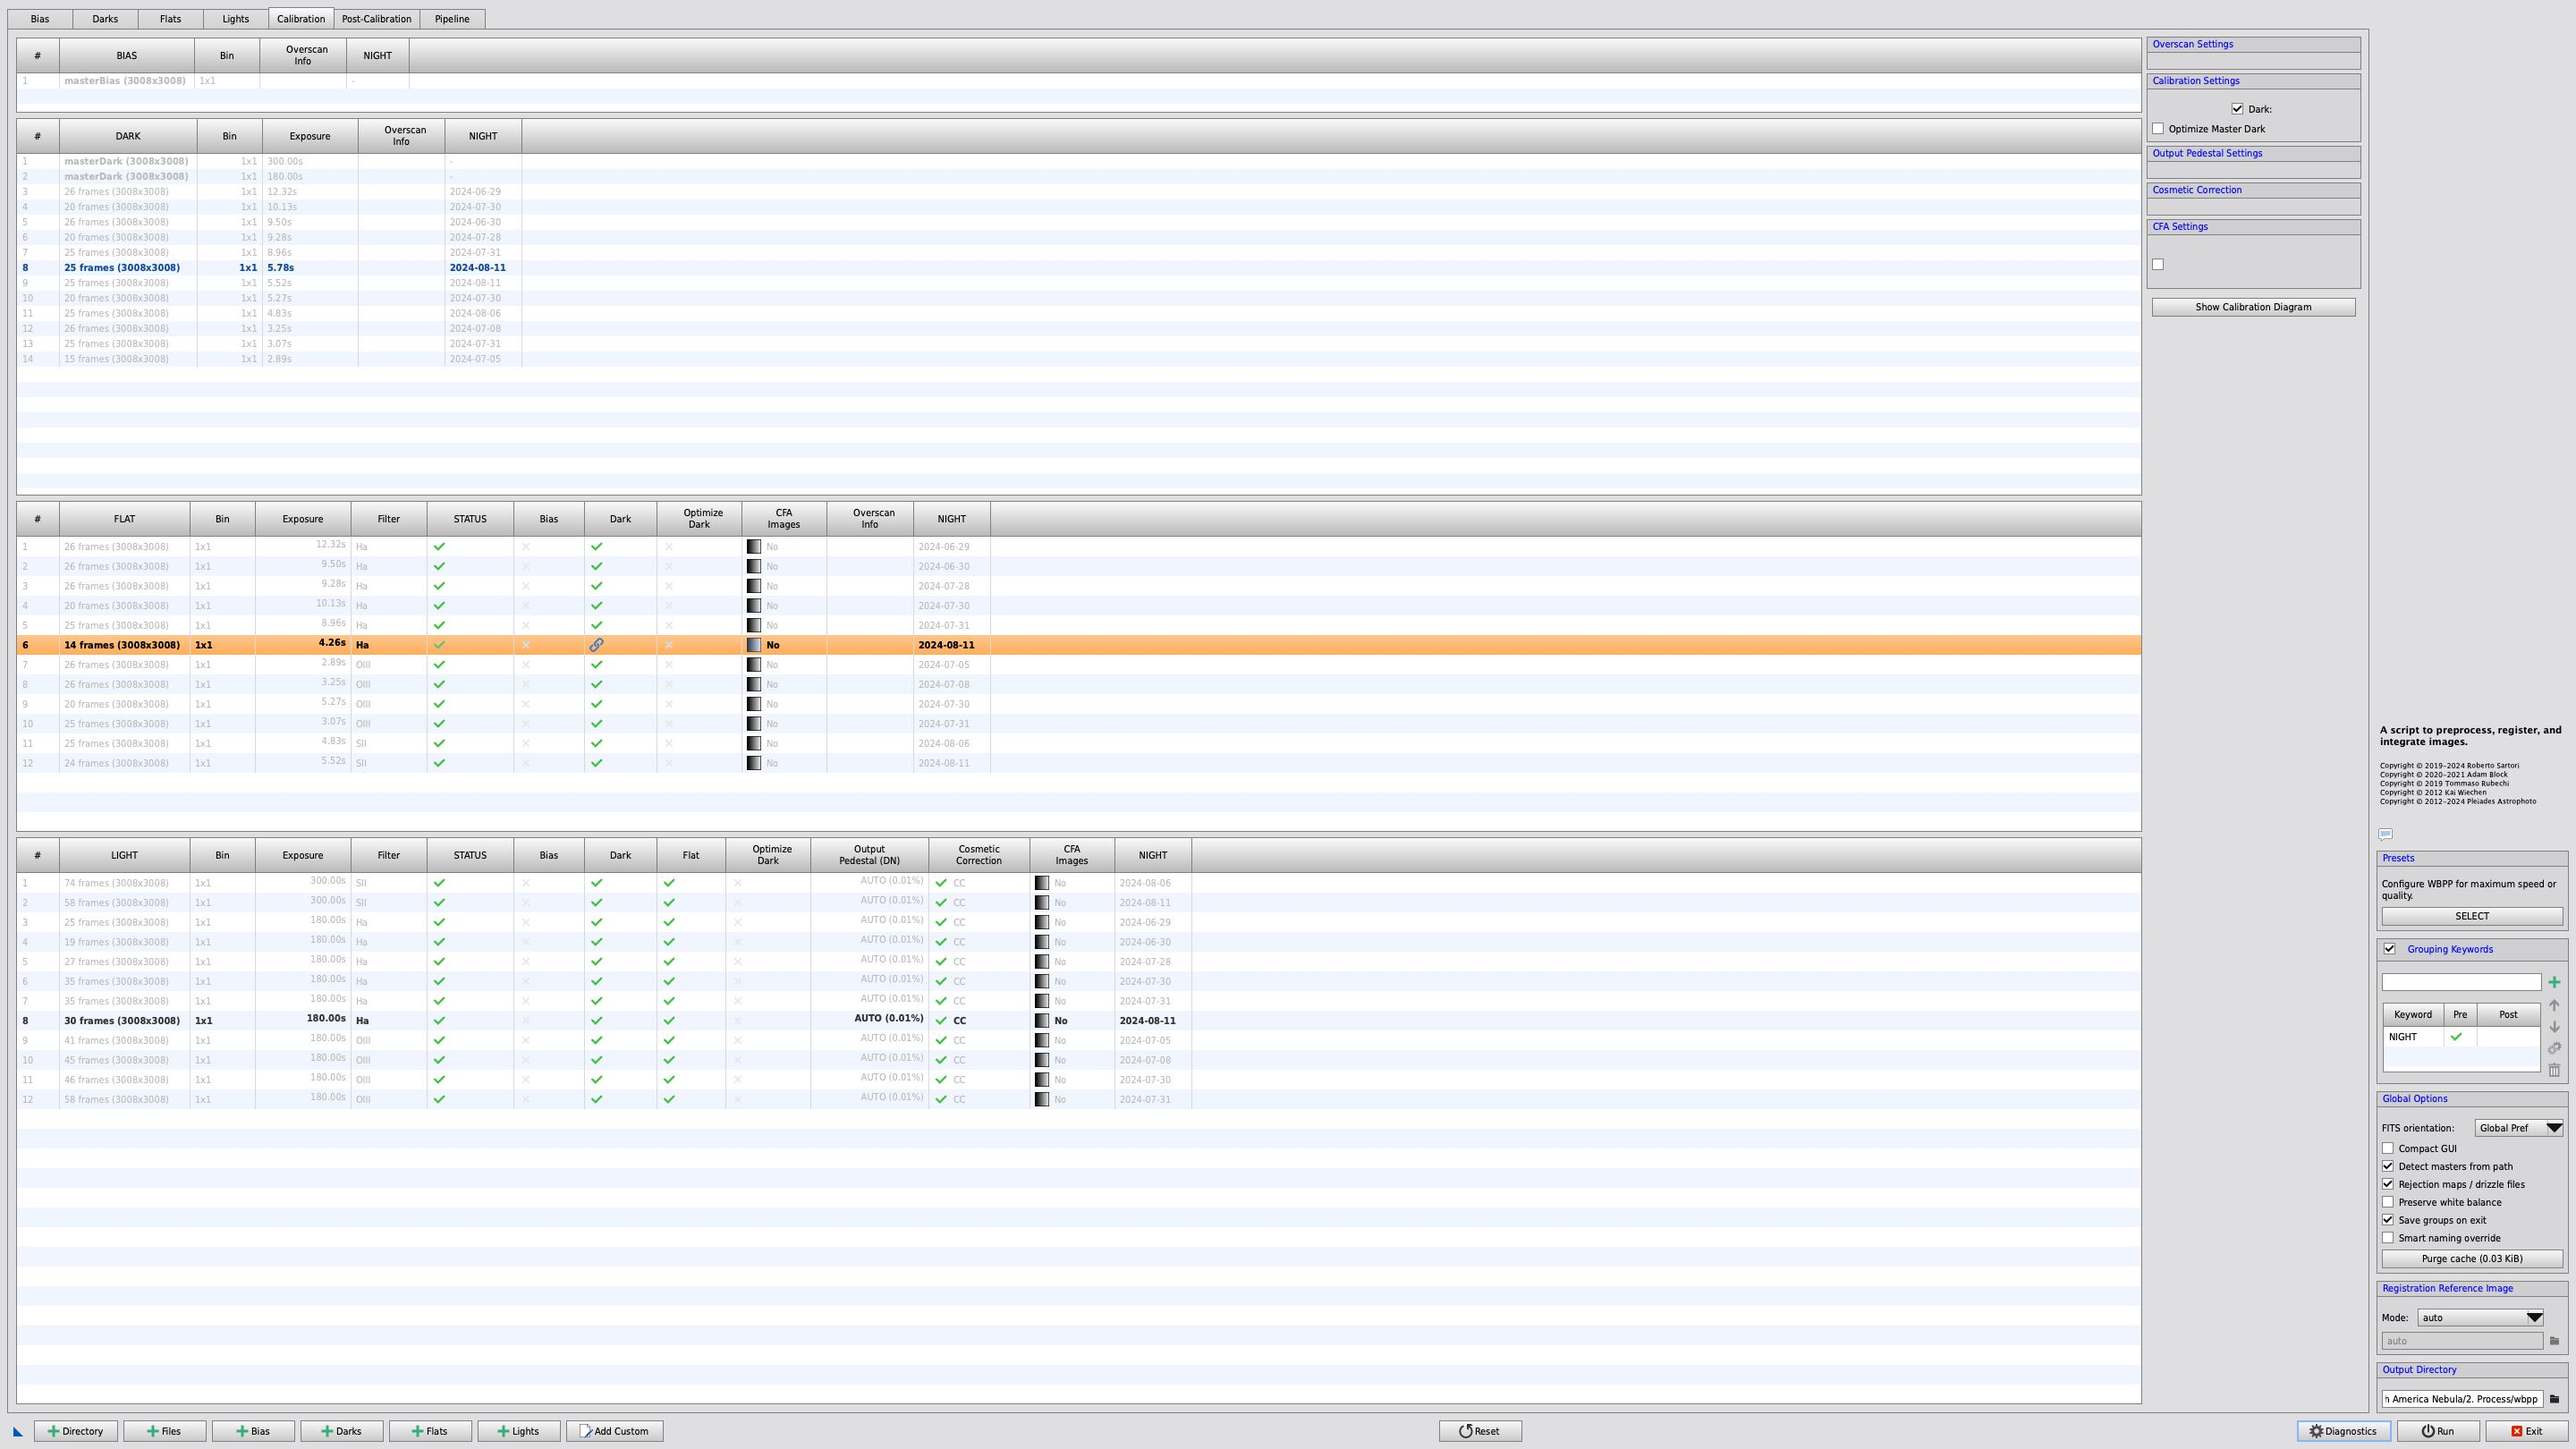
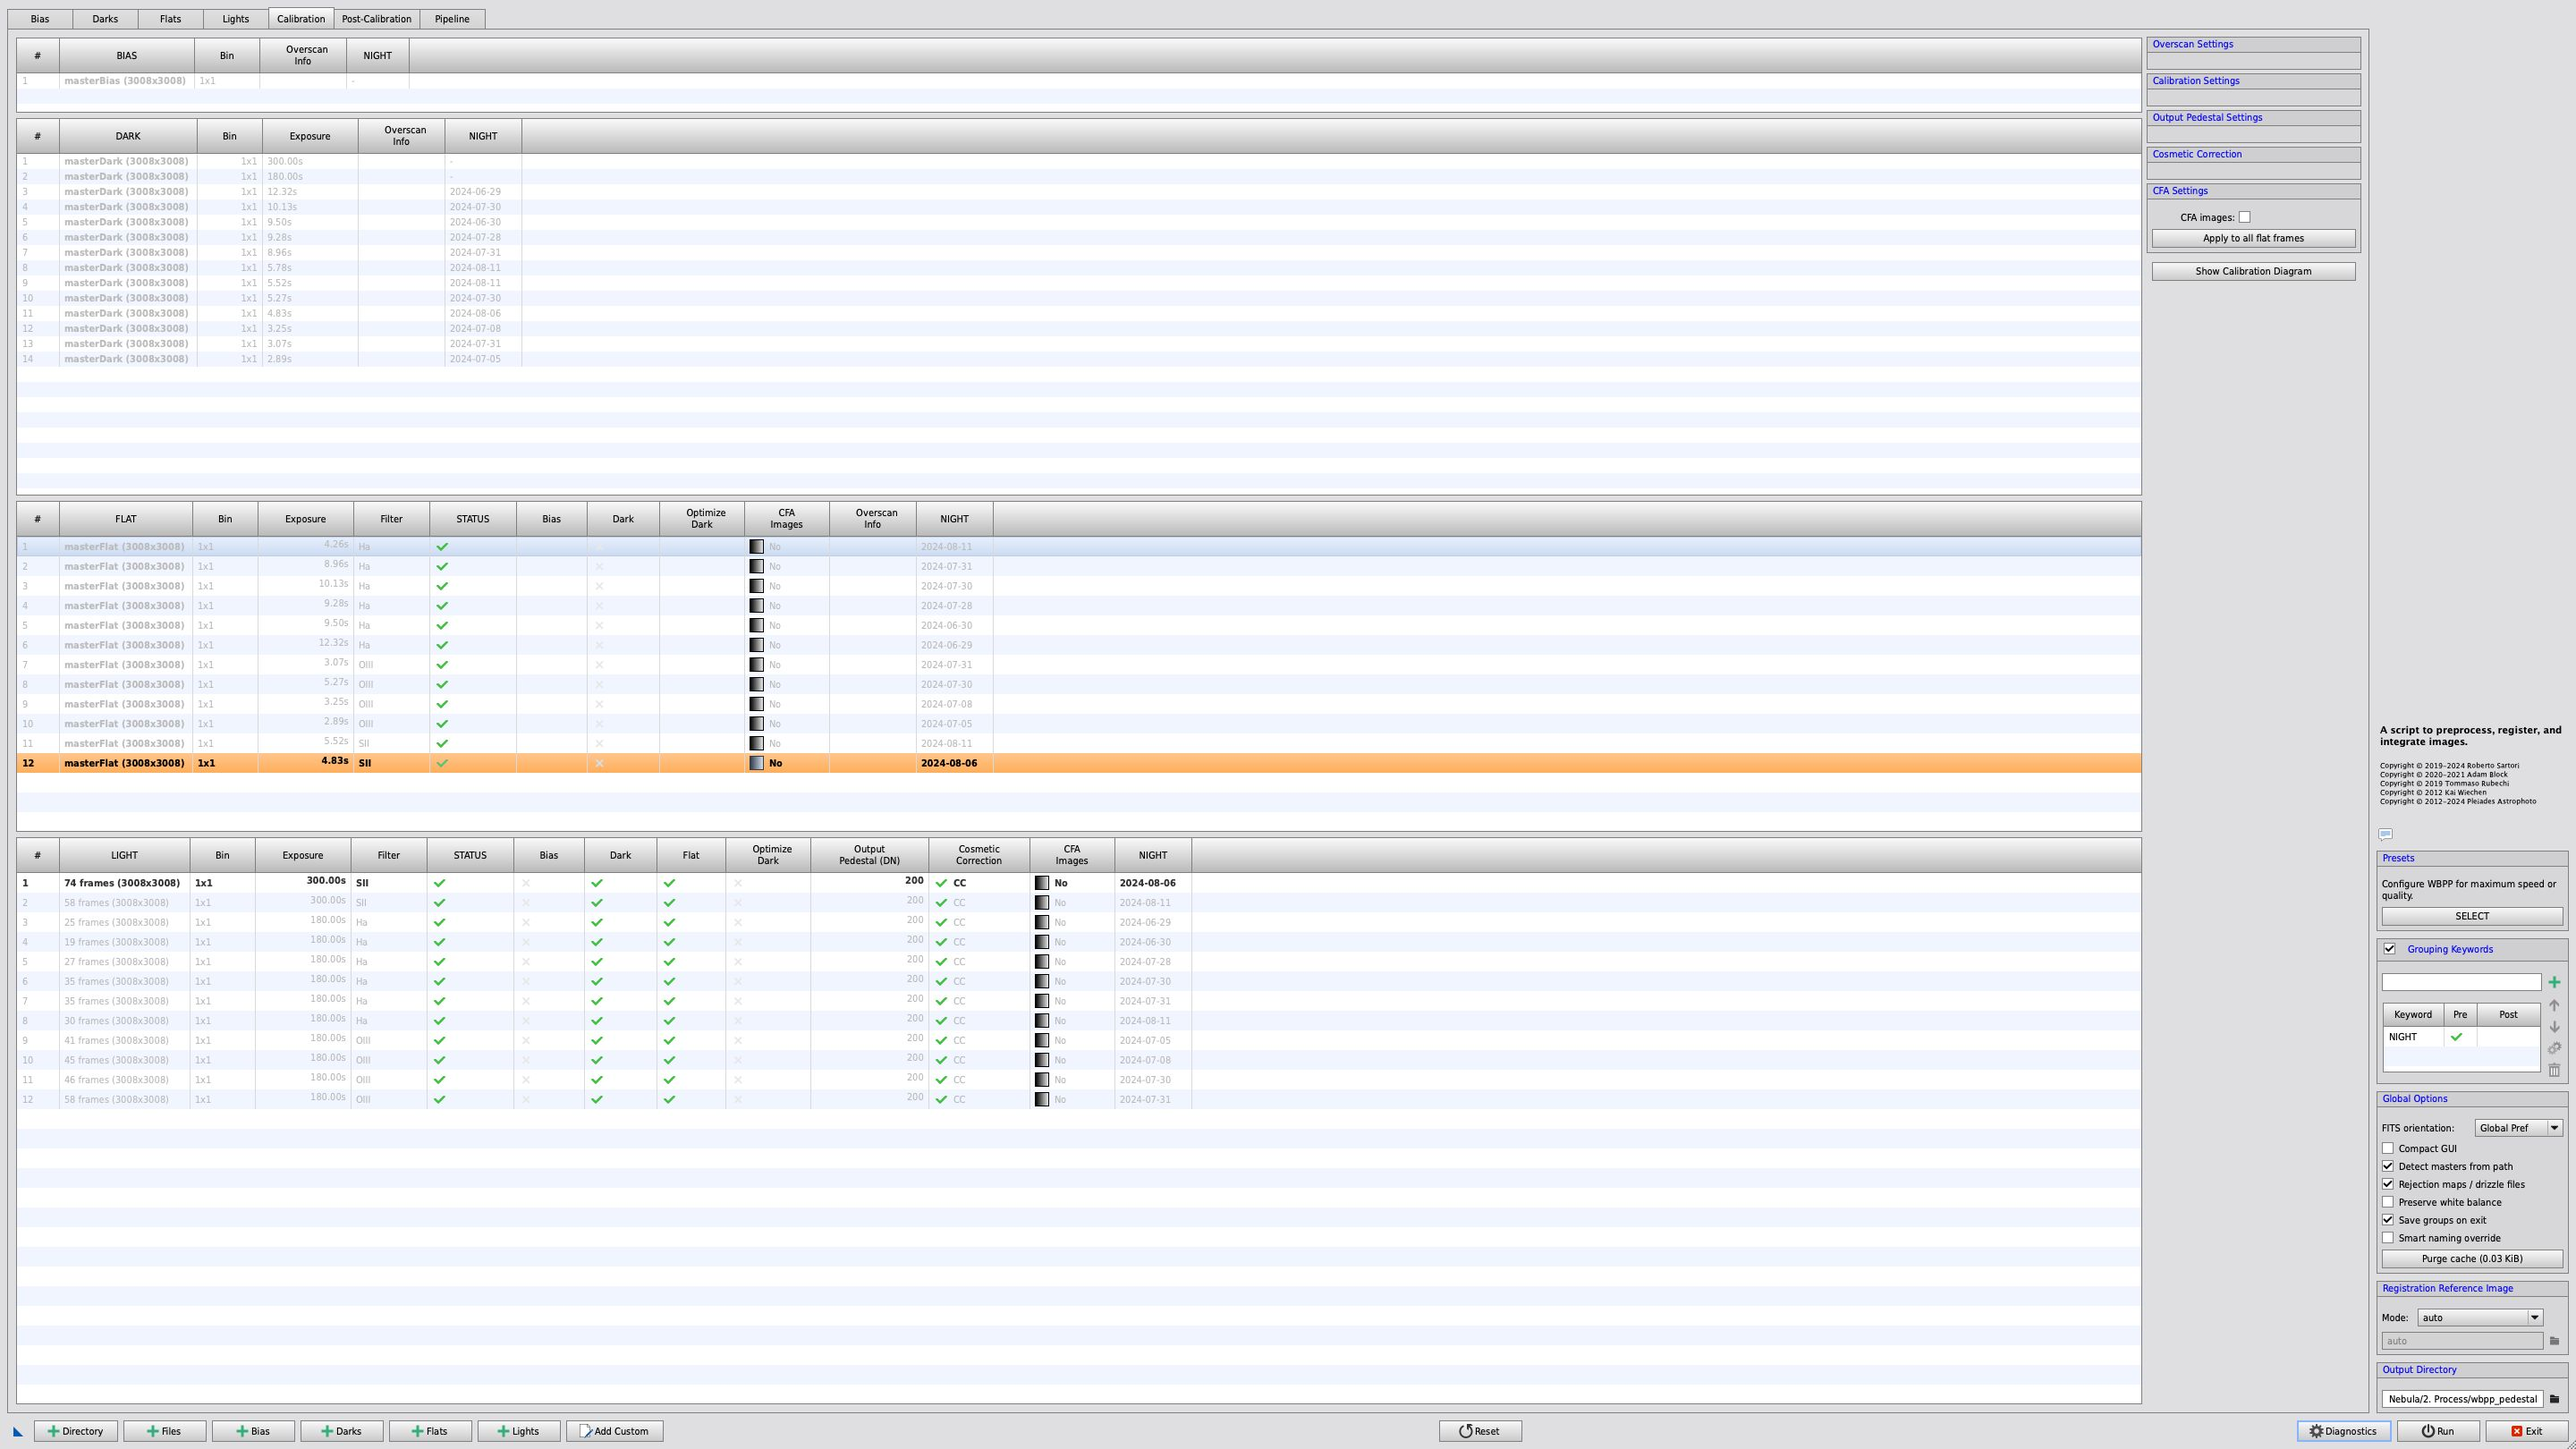
WIP

diff --git a/projects/ngc-7000/README.md b/projects/ngc-7000/README.md
@@ -49,11 +49,12 @@ It turned out the “milky” images had notably less stars (500 vs. 2000 on ave
 5. Load the bias
 6. Select maximum quality
 7. Use *CosmeticCorrection* with Autodetect (HotSigma=4, ColdSigma=3)
-8. Drizzle 1x, Drop Shrink 0.90, Square
+8. Set an Output Pedestal of 200 (DN)
+9. Drizzle 1x, Drop Shrink 0.90, Square
 
 See [screenshots](./media/wbpp/).
 
-Total execution time: 01h:02m:22s.
+Total execution time: 01h:10m:27s.
 
 ### 3. Load Master Images
 
